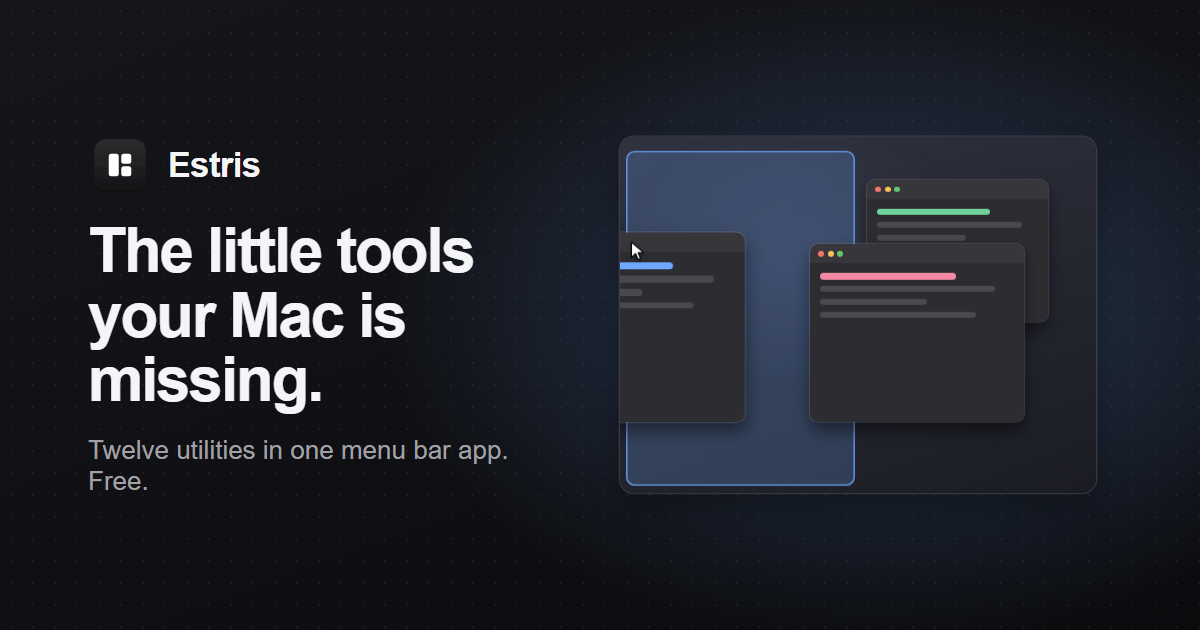
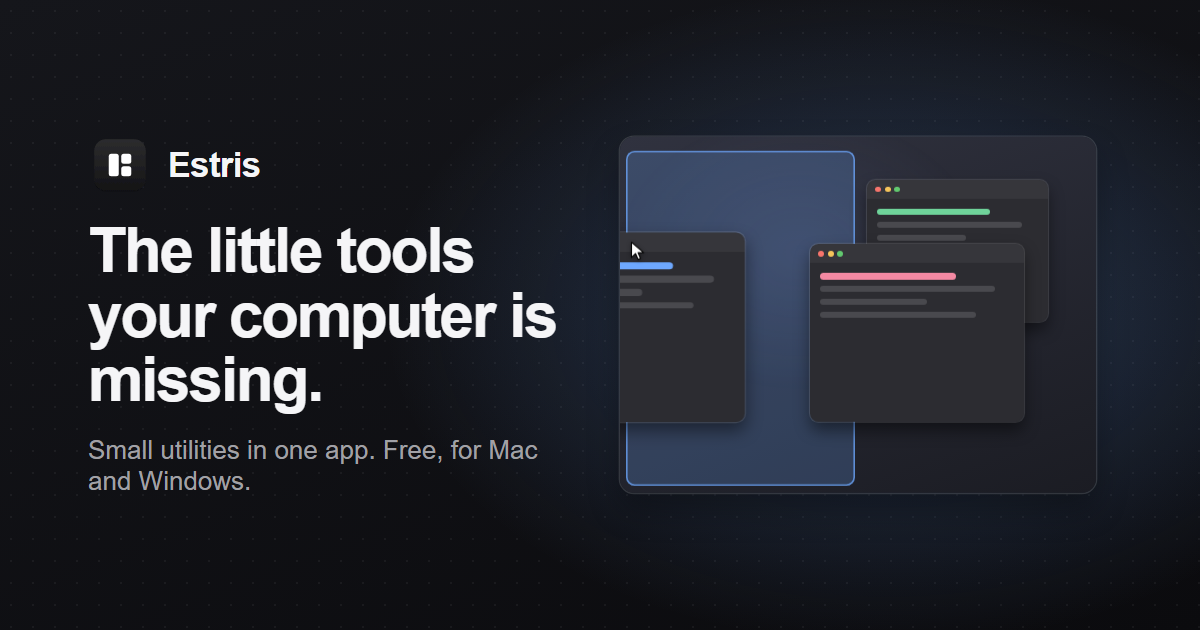
Add Windows releases, the site for both systems and the monorepo docs
Windows gets its build and release workflows, with Velopack installers on a rolling
windows-latest release so the Mac's latest release stays its own. The site offers both
downloads and says what is Mac only. CLAUDE.md now leaves out of an app what makes no sense there.

Changed region(s): [[0.0617, 0.6937, 0.4625, 0.7841], [0.185, 0.4524, 0.4625, 0.5429]]

diff --git a/web/src/data/features.ts b/web/src/data/features.ts
@@ -6,6 +6,11 @@ export interface Feature {
   tagline: string;
   /** At most three short lines on how it works. */
   details: string;
+  /** Replace those for visitors on Windows, where the wording differs. */
+  windowsTagline?: string;
+  windowsDetails?: string;
+  /** Windows has this built in, so Estris for Windows doesn't. */
+  macOnly?: boolean;
   seconds: number;
   /** The colour of its glow on the page. */
   accent: string;
@@ -19,6 +24,7 @@ export const features: Feature[] = [
     title: "Window Snapping",
     tagline: "Every window, exactly where you want it.",
     details: "Drag a window to an edge or a corner, or use ⌃⌥ shortcuts for halves, thirds and corners. One shortcut lines up every window on the screen.",
+    windowsDetails: "Drag a window to an edge or a corner, or use Ctrl+Alt shortcuts for halves, thirds and corners. One shortcut lines up every window on the screen.",
     seconds: 10,
     accent: "#6ea8fe",
     icon: '<rect x="3" y="5" width="18" height="14" rx="2.5" fill="none" stroke="currentColor" stroke-width="1.8"/><path d="M12 5v14" stroke="currentColor" stroke-width="1.8"/>',
@@ -28,6 +34,7 @@ export const features: Feature[] = [
     title: "Clipboard",
     tagline: "Everything you copy, one shortcut away.",
     details: "Hold ⌘⇧ and tap V to step back through what you copied, then let go to paste it. Text, images and files, with passwords left out.",
+    windowsDetails: "Hold Ctrl+Shift and tap V to step back through what you copied, then let go to paste it. Text, images and files, with passwords left out.",
     seconds: 12,
     accent: "#ffb867",
     icon: '<rect x="5.5" y="4.5" width="13" height="16" rx="2.5" fill="none" stroke="currentColor" stroke-width="1.8"/><rect x="9" y="2.8" width="6" height="3.4" rx="1.2" fill="currentColor"/>',
@@ -37,6 +44,7 @@ export const features: Feature[] = [
     title: "Volume Mixer",
     tagline: "A volume knob for every app.",
     details: "Turn the music up and the browser down, mute one app, or send a call to your headphones. Right from the menu bar.",
+    windowsDetails: "Turn the music up and the browser down, mute one app, or send a call to your headphones. Right from the system tray.",
     seconds: 12,
     accent: "#f589a3",
     icon: '<path d="M4 9.5h3.5L12 5.5v13l-4.5-4H4z" fill="currentColor"/><path d="M15.5 9a4.5 4.5 0 0 1 0 6M18 6.5a8 8 0 0 1 0 11" fill="none" stroke="currentColor" stroke-width="1.8" stroke-linecap="round"/>',
@@ -46,6 +54,7 @@ export const features: Feature[] = [
     title: "Dock Preview",
     tagline: "See an app's windows before you click.",
     details: "Rest the pointer on an app in the Dock to see every window it has open, even on other desktops. Click one to go straight to it.",
+    macOnly: true,
     seconds: 10,
     accent: "#b794f6",
     icon: '<rect x="3" y="3.5" width="18" height="12" rx="2.5" fill="none" stroke="currentColor" stroke-width="1.8"/><rect x="6" y="18" width="12" height="3" rx="1.5" fill="currentColor"/>',
@@ -55,6 +64,7 @@ export const features: Feature[] = [
     title: "Color Picker",
     tagline: "Any color on your screen, copied in a click.",
     details: "Press ⌘⇧C, point and click. The color is copied as Hex, RGB, HSL or SwiftUI, and your recent colors stay a click away.",
+    windowsDetails: "Press Ctrl+Shift+C, point and click. The color is copied as Hex, RGB, HSL or C#, and your recent colors stay a click away.",
     seconds: 8,
     accent: "#ff8a5c",
     icon: '<path d="M12 3.5c3 4 5.5 6.8 5.5 10a5.5 5.5 0 0 1-11 0c0-3.2 2.5-6 5.5-10z" fill="none" stroke="currentColor" stroke-width="1.8" stroke-linejoin="round"/>',
@@ -73,6 +83,7 @@ export const features: Feature[] = [
     title: "Keep Awake",
     tagline: "Your Mac stays awake for as long as you need.",
     details: "Keep the screen on for a set time or indefinitely, with separate choices on power and on battery.",
+    windowsTagline: "Your PC stays awake for as long as you need.",
     seconds: 6,
     accent: "#f5c451",
     icon: '<path d="M4.5 9h11v4.5a5 5 0 0 1-5 5h-1a5 5 0 0 1-5-5zM15.5 10.5h1.5a2.5 2.5 0 0 1 0 5h-1.5" fill="none" stroke="currentColor" stroke-width="1.8" stroke-linejoin="round"/><path d="M8 3.5c-.8 1 .8 1.6 0 2.8M12 3.5c-.8 1 .8 1.6 0 2.8" fill="none" stroke="currentColor" stroke-width="1.6" stroke-linecap="round"/>',
@@ -91,6 +102,7 @@ export const features: Feature[] = [
     title: "Remap",
     tagline: "Make every key and button do what you want.",
     details: "Turn Caps Lock into Escape, or a mouse button into Mission Control. Each keyboard and mouse keeps its own mappings.",
+    windowsDetails: "Turn Caps Lock into Escape, or a mouse button into Task View. Each keyboard and mouse keeps its own mappings.",
     seconds: 6,
     accent: "#7cc8f0",
     icon: '<rect x="2.5" y="6" width="19" height="12" rx="2.5" fill="none" stroke="currentColor" stroke-width="1.8"/><path d="M6.5 10h1M10.5 10h1M14.5 10h1M8 14h8" stroke="currentColor" stroke-width="1.8" stroke-linecap="round"/>',
@@ -100,6 +112,7 @@ export const features: Feature[] = [
     title: "Middle Click",
     tagline: "The middle click, now on your trackpad.",
     details: "Tap with three fingers to open a link in a new tab or close one, just like clicking a mouse wheel.",
+    macOnly: true,
     seconds: 8,
     accent: "#9d9bf0",
     icon: '<circle cx="6.5" cy="13" r="2" fill="currentColor"/><circle cx="12" cy="10" r="2" fill="currentColor"/><circle cx="17.5" cy="13" r="2" fill="currentColor"/>',
@@ -109,6 +122,7 @@ export const features: Feature[] = [
     title: "Delete to Trash",
     tagline: "The Delete key, as it works on Windows.",
     details: "Select files and press Delete to move them to the Trash, no ⌘ needed. It works in Photos, Notes and other apps too, and Shift-Delete skips the Trash.",
+    macOnly: true,
     seconds: 8,
     accent: "#a3a8b8",
     icon: '<path d="M4.5 7h15M9.5 7V4.8h5V7M6.5 7l.9 12.2a1.8 1.8 0 0 0 1.8 1.6h5.6a1.8 1.8 0 0 0 1.8-1.6L17.5 7" fill="none" stroke="currentColor" stroke-width="1.8" stroke-linecap="round" stroke-linejoin="round"/><path d="M10.2 10.5v6.5M13.8 10.5v6.5" stroke="currentColor" stroke-width="1.8" stroke-linecap="round"/>',
@@ -123,11 +137,3 @@ export const features: Feature[] = [
     icon: '<rect x="4" y="4" width="16" height="16" rx="3.5" fill="none" stroke="currentColor" stroke-width="1.8"/><path d="M9.5 9.5l5 5M14.5 9.5l-5 5" stroke="currentColor" stroke-width="1.8" stroke-linecap="round"/>',
   },
 ];
-
-/** How many tools, as a word ("eleven"), for copy that names the count. */
-export const toolCount =
-  ["zero", "one", "two", "three", "four", "five", "six", "seven", "eight", "nine", "ten", "eleven", "twelve", "thirteen", "fourteen", "fifteen"][features.length] ??
-  String(features.length);
-
-/** The same, capitalized to start a sentence. */
-export const ToolCount = toolCount[0].toUpperCase() + toolCount.slice(1);

diff --git a/web/src/styles/site.css b/web/src/styles/site.css
@@ -64,6 +64,15 @@ h1, h2, p { margin: 0; }
 .button-large { min-height: 44px; padding: 0 22px; font-size: 16px; margin-top: clamp(2px, 0.5vh, 6px); }
 .button-large .button-icon { width: 18px; height: 18px; }
 .button:hover { opacity: 0.86; }
+/* The visitor's own system first and solid, the other beside it, quieter. */
+.downloads { display: flex; flex-wrap: wrap; justify-content: center; gap: 10px; }
+.for-windows-first { background: transparent; color: var(--text); box-shadow: inset 0 0 0 1px color-mix(in srgb, var(--text) 22%, transparent); }
+[data-os="windows"] .for-windows-first { order: -1; background: var(--button); color: var(--button-text); box-shadow: none; }
+[data-os="windows"] .for-mac-first { background: transparent; color: var(--text); box-shadow: inset 0 0 0 1px color-mix(in srgb, var(--text) 22%, transparent); }
+.for-windows { display: none; }
+[data-os="windows"] .for-windows { display: block; }
+[data-os="windows"] .for-mac { display: none; }
+.only { padding: 3px 9px; border-radius: 999px; font-size: 12px; font-weight: 600; color: var(--muted); box-shadow: inset 0 0 0 1px color-mix(in srgb, var(--muted) 40%, transparent); }
 .button:active { transform: scale(0.97); }
 :focus-visible { outline: 3px solid #0a84ff; outline-offset: 3px; }
 

diff --git a/web/src/config.ts b/web/src/config.ts
@@ -1,7 +1,11 @@
-/** Where the Download button points: the disk image of the latest GitHub release. */
+/** Where the Download buttons point: the disk image of the latest GitHub release, and the
+    installer of the rolling release Windows versions go to (they never count as "latest",
+    which the Mac's button and updates rely on). */
 export const DOWNLOAD_URL = "https://github.com/CarlesRojas/estris/releases/latest/download/Estris.dmg";
+export const DOWNLOAD_WINDOWS_URL = "https://github.com/CarlesRojas/estris/releases/download/windows-latest/Estris-win-Setup.exe";
 
 export const MIN_MACOS = "macOS 13 or later";
+export const MIN_WINDOWS = "Windows 10 or later";
 
 /** Where the site lives, for the picture shared on social sites (which needs a full URL). */
 export const SITE_URL = "https://estris.pro";

diff --git a/windows/scripts/release.py b/windows/scripts/release.py
@@ -1,0 +1,58 @@
+#!/usr/bin/env python3
+"""Prepares a Windows release: bumps the version in Estris.csproj and turns the changelog's
+Unreleased section into the new version's. Used by the Release Windows workflow.
+
+    python scripts/release.py patch|minor|major NOTES_FILE
+
+Writes the release notes (the Unreleased entries, then a line every release has) to NOTES_FILE
+and prints `version=X.Y.Z` for the workflow. Unreleased may be empty.
+"""
+import datetime
+import re
+import sys
+from pathlib import Path
+
+ROOT = Path(__file__).resolve().parent.parent
+PROJECT = ROOT / "src/Estris/Estris.csproj"
+CHANGELOG = ROOT / "CHANGELOG.md"
+# Last in every release's notes, even when nothing else is.
+ALWAYS = "- Performance improvements and bug fixes."
+
+
+def main():
+    if len(sys.argv) != 3 or sys.argv[1] not in ("patch", "minor", "major"):
+        sys.exit(__doc__)
+    bump, notes_file = sys.argv[1], Path(sys.argv[2])
+
+    changelog = CHANGELOG.read_text(encoding="utf-8")
+    section = re.search(r"^## Unreleased\n(.*?)(?=^## |\Z)", changelog, re.S | re.M)
+    if not section:
+        sys.exit("CHANGELOG.md has no '## Unreleased' section")
+    notes = "\n".join(line for line in (section.group(1).strip(), ALWAYS) if line)
+
+    project = PROJECT.read_text(encoding="utf-8")
+    current = re.search(r"<Version>(\d+)\.(\d+)\.(\d+)</Version>", project)
+    if not current:
+        sys.exit("<Version> not found in Estris.csproj")
+    major, minor, patch = (int(part) for part in current.groups())
+    if bump == "major":
+        major, minor, patch = major + 1, 0, 0
+    elif bump == "minor":
+        minor, patch = minor + 1, 0
+    else:
+        patch += 1
+    version = f"{major}.{minor}.{patch}"
+    PROJECT.write_text(project[:current.start()] + f"<Version>{version}</Version>" + project[current.end():], encoding="utf-8")
+
+    today = datetime.date.today().isoformat()
+    changelog = (changelog[:section.start()] + "## Unreleased\n\n" + f"## {version} - {today}\n\n"
+                 + notes + "\n\n" + changelog[section.end():].lstrip("\n"))
+    CHANGELOG.write_text(changelog.rstrip("\n") + "\n", encoding="utf-8")
+
+    notes_file.parent.mkdir(parents=True, exist_ok=True)
+    notes_file.write_text(notes + "\n", encoding="utf-8")
+    print(f"version={version}")
+
+
+if __name__ == "__main__":
+    main()

diff --git a/CLAUDE.md b/CLAUDE.md
@@ -1,12 +1,14 @@
 # Notes for Claude
 
-- Estris is built for both Mac and Windows. Every feature, change or fix goes into both apps in the same change, even when the request only mentions one; where something can't exist on one of them, keep as close to it as that platform allows and say what differs.
-- Project context (features, settings, behavior, project structure) lives in `PROJECT.md`. Read it for context, and keep it up to date whenever a feature or the structure changes.
+- Estris is a monorepo with two native apps: `macos/` (Swift) and `windows/` (C#, WinUI 3), plus `web/`. Every feature, change or fix goes into both apps in the same change, even when the request only mentions one. The exception is what makes no sense on a platform, because the system already does it well or it can't really be done there: then it stays out of that app, the table in `PROJECT.md` says so, and you tell the user. Don't build a lesser version just to have it.
+- The Windows app must look like a Windows app, not a Mac port: Fluent style, Mica and Acrylic, Segoe Fluent Icons, the system accent colour.
+- Project context lives in `PROJECT.md` (the two apps, what each has, releases, website), `macos/PROJECT.md` and `windows/PROJECT.md` (features, settings, behavior, structure). Read them for context, and keep them up to date whenever a feature or the structure changes.
 - `README.md` only covers how to develop: the commands and a short line for each. Keep it short.
 - Localization: every user-facing string must be localized in the same change that adds or edits it, in every supported language, with no exceptions and no follow-up PRs. A string is user-facing if it can appear on screen (labels, buttons, menus, alerts, help tooltips, placeholders, Event Viewer text). Log messages and identifiers are not localized.
-  - How: add the English text as a line in every `Resources/Localization/<language>.lproj/Localizable.strings` (the key is the English text, with `%@` for interpolated strings and `%lld` for integers), translated. Literal text in SwiftUI (`Text("…")`, `Button("…")`, `.help("…")`) is translated on its own; text built in code uses `String(localized: "…")`; a key known only at run time uses `localized(_:)`. Text that must never be translated uses `Text(verbatim:)`.
-  - Then run `python3 scripts/check-localization.py`; it must report 0 problems before committing.
-- Every settings pane except General, Remap and Developer ends with a **Reset to Defaults** button. When adding a setting, include it in that pane's `reset()`. Resets leave on/off switches, excluded apps, history and Open at login alone.
-- Every settings row also gets a right-click **Reset to Default** with `.resetMenu(...)` (`Settings/ResetMenu.swift`), taking its default from the settings class's constants, the same ones `reset()` uses. Add it to any new row.
-- Changes that matter to people using Estris add a short line under **Unreleased** in `CHANGELOG.md`, in the same change, written for users: a new utility or feature, a new or changed setting or default, a fix for something they would have run into, a change in how something they use behaves. Leave out small polish and details of installing, updating or permissions (a window opening on another screen, the disk image ejecting itself), and anything internal (refactors, docs, the website, build and release scripts). When unsure, leave it out.
-- A new utility also goes on the website (`web/`) in the same change: its entry in `web/src/data/features.ts` (title, tagline, details, length, accent and icon), an animation in `web/src/components/spots/` registered in `index.ts`, made like the others with the helpers in `web/src/lib/motion.ts` and showing the utility doing what it does, and its video recorded into `web/public/spots/` (`npm run build && npm run render-spots -- <id>`; check the frames first with `--sheet`). Then run `npm run render-og` too, as the shared picture says how many tools there are.
+  - Mac: add the English text as a line in every `macos/Resources/Localization/<language>.lproj/Localizable.strings` (the key is the English text, with `%@` for interpolated strings and `%lld` for integers), translated. Literal text in SwiftUI (`Text("…")`, `Button("…")`, `.help("…")`) is translated on its own; text built in code uses `String(localized: "…")`; a key known only at run time uses `localized(_:)`. Text that must never be translated uses `Text(verbatim:)`. Then run `python3 macos/scripts/check-localization.py`.
+  - Windows: visible text goes through `T("…")` (`Core/Loc.cs`), with the same keys, and is translated in `windows/src/Estris/Localization/<language>/<area>.strings` (English has no file). Then run `python windows/scripts/check-localization.py` (`--from-mac` copies what the Mac already has).
+  - Each check must report 0 problems before committing.
+- Every settings pane except General, Remap and Developer ends with a **Reset to Defaults** button. When adding a setting, include it in that pane's `reset()` (Mac) or `pane.ResetButton` (Windows). Resets leave on/off switches, excluded apps, history and Open at login alone.
+- Every settings row also gets a right-click **Reset to Default**. Mac: `.resetMenu(...)` (`Settings/ResetMenu.swift`), taking its default from the settings class's constants, the same ones `reset()` uses; add it to any new row. Windows: rows built with `Pane` from a `Setting<T>` have it already; a custom row calls `Pane.WithReset`.
+- Changes that matter to people using Estris add a short line under **Unreleased** in `macos/CHANGELOG.md` and `windows/CHANGELOG.md`, in the same change, written for users: a new utility or feature, a new or changed setting or default, a fix for something they would have run into, a change in how something they use behaves. Leave out small polish and details of installing, updating or permissions (a window opening on another screen, the disk image ejecting itself), and anything internal (refactors, docs, the website, build and release scripts). When unsure, leave it out.
+- A new utility also goes on the website (`web/`) in the same change: its entry in `web/src/data/features.ts` (title, tagline, details, length, accent and icon, with `windowsDetails` where the wording differs on Windows, or `macOnly`), an animation in `web/src/components/spots/` registered in `index.ts`, made like the others with the helpers in `web/src/lib/motion.ts` and showing the utility doing what it does, and its video recorded into `web/public/spots/` (`npm run build && npm run render-spots -- <id>`; check the frames first with `--sheet`).

diff --git a/PROJECT.md b/PROJECT.md
@@ -1,0 +1,43 @@
+# Estris: project context
+
+Estris is a set of small utilities in one app, for Mac and Windows. Each app is native and has its own code: there is nothing shared to build, but they are one product, so a feature, change or fix goes into both.
+
+- `macos/`: the Mac app, in Swift. Its features, settings and structure are in `macos/PROJECT.md`.
+- `windows/`: the Windows app, in C# with WinUI 3. Same: `windows/PROJECT.md`.
+- `web/`: the download site, below.
+
+The Mac app is the reference for how a utility behaves. The Windows one matches it, in Windows's own look: it shouldn't look like a Mac app.
+
+## What each app has
+
+| Utility | Mac | Windows |
+| --- | --- | --- |
+| Clipboard | yes | yes |
+| Color Picker | yes | yes |
+| Volume Mixer | yes | yes, per-app volume up to 100% (more needs an audio driver) |
+| Keep Awake | yes | yes |
+| Rounded Corners | yes | yes |
+| Window Snapping | yes | yes |
+| Focus Follows Mouse | yes | yes |
+| Auto Quit | yes | yes |
+| Remap | yes | yes |
+| Dock Preview | yes | no: the taskbar already shows previews |
+| Middle Click | yes | no: three-finger tap is a Windows setting |
+| Delete to Trash | yes | no: Delete already works this way |
+
+Only what makes sense on a platform goes in: what the system already does well, or what can't really be done there, stays out, and this table says so.
+
+## Releases
+
+Each app releases on its own, from Actions, with its own version and changelog: **Release macOS** and **Release Windows**. GitHub's "latest release" belongs to the Mac app, whose updates and download button read it, so Windows releases are never marked as latest; installed Windows copies and the website read the rolling `windows-latest` release instead.
+
+## Website
+
+`web/` is the download site, built with Astro as a static site (for Vercel, with `web` as the project's root directory). Everything is centred. On a desktop it fits one screen: a top bar with the icon and the name, and a **GitHub** link on the right (with the star count once there are at least `MIN_STARS_SHOWN`, 25, asked of GitHub's API once per visit); the app icon, larger, right above the headline, and under it **Download for Mac** and **Download for Windows** side by side (with a download icon, as in the footer), with lots of room around them; the visitor's own system goes first and solid, the other is quieter; the features as pills with their icons, in rows as even as they can be (the narrowest list that keeps the same number of rows), the playing one tinted with its colour and filling up as its animation plays (fully filled once picked); and a large panel tinted with the playing feature's colour, with its animation, title, one-line pitch and up to three lines on how it works (when the panel is wide, at least 8:5, the animation, larger, on the left and the words on the right, centred together with the glow behind the animation). Scrolling only reveals a small footer: the download buttons, the system versions needed and the copyright. Visitors on Windows (`data-os` on the page, set before it paints) get the wording of `windowsTagline` and `windowsDetails`; features Windows has built in (`macOnly`) say **Mac only**. The features play one after another, each for its animation's length (a short line under the playing one shows its progress), back to the first after the last, until one is picked: it then keeps replaying. Every animation ends exactly as it starts, so replaying is seamless. Keep Awake and Remap are still pictures. Rounded Corners shows a square-cornered screen filled by a light, square-cornered window, so the black corners stand out (the menu bar's items kept clear of the corners) and its switch in the middle: clicked on, the screen's corners round off in black, as round as the menu bar is tall; clicked off, they square up again. The panel spans the page's width, up to 1440 px. On narrow or short screens the page scrolls, with the features as a grid of icons (five to a row, all in view) above the panel, smaller text and a smaller top bar. Only plays while on screen; with Reduce Motion each animation shows how it ends.
+
+- `src/data/features.ts`: the features' texts (and their Windows wording), order, animation lengths, colours and icons.
+- `src/lib/motion.ts`: the animations' motion language, after LottieFiles' motion-design skill (the "Playful" personality): fast starts with soft landings, a small overshoot when things arrive (ease-out-back), a squash and spring on every click and keypress, a pointer that travels in arcs (x and y on different curves) and holds down while dragging, and a soft light drifting over each screen. Helpers return the keyframes, so every spot moves the same way. Colours are a softer palette than the system's pure ones (`--blue`, `--pink`… in `spot.css`).
+- `src/components/spots/`: one animation per feature, in HTML and CSS on a square, transparent stage (`src/styles/spot.css` holds the shared pieces: screen, windows, pointer, keycaps, labels). Each runs its keyframes once over `--d` while its root has `.playing`.
+- `src/pages/spots/[id].astro`: each animation alone, for recording; `scripts/render-spots.mjs` records them as 1080 px transparent WebM into `public/spots` (and ProRes 4444 with `--mov`), for social posts or elsewhere. `--sheet` writes a few frames side by side to check one.
+- `src/config.ts`: where Download points (`Estris.dmg` of this repo's latest GitHub release, and the installer on the rolling `windows-latest` release), the site's address, the repo and the star threshold.
+- Shared links show `public/og.png` (1200 × 630: the icon, the headline and Window Snapping's animation, paused while a window is dragged to the left edge), recorded from `src/pages/og.astro` by `scripts/render-og.mjs` (`npm run render-og` after a build).

diff --git a/README.md b/README.md
@@ -1,14 +1,18 @@
 # Estris
 
+Small utilities for Mac and Windows. `macos/` and `windows/` are the two apps, `web/` the site.
+
+## Mac (`macos/`)
+
 Needs an Apple Development certificate (Xcode > Settings > Accounts > Manage Certificates). The build signs with it, so macOS keeps the Accessibility permission across builds.
 
 ```sh
-./scripts/run.sh
+cd macos && ./scripts/run.sh
 ```
 Quits the running app, builds it and opens the new build. Use it after every change.
 
 ```sh
-./scripts/build-app.sh
+cd macos && ./scripts/build-app.sh
 ```
 Only builds `build/Estris.app`, without opening it.
 
@@ -18,13 +22,32 @@ tccutil reset Accessibility com.carlesrojas.Estris
 Run once after the signing certificate changes, then grant Accessibility again.
 
 ```sh
-python3 scripts/check-localization.py
+python3 macos/scripts/check-localization.py
 ```
 Checks every visible string is translated in every language.
 
+## Windows (`windows/`)
+
+Needs the [.NET 10 SDK](https://dotnet.microsoft.com/download). Visual Studio isn't needed.
+
+```sh
+bash windows/scripts/build.sh run
+```
+Quits the running app, builds it and opens the new build.
+
+```sh
+python windows/scripts/check-localization.py
+```
+Checks every visible string is translated in every language. `--from-mac` first copies the translations the Mac app already has.
+
+```sh
+dotnet tool install -g vpk && VERSION=1.2.3 bash windows/scripts/make-installer.sh
+```
+Builds the installers into `windows/build/releases`.
+
 ## Releases
 
-Actions > Release > Run workflow, on main, choosing patch, minor or major: bumps the version, turns the changelog's Unreleased entries into the release notes, and publishes a signed, notarized `Estris.dmg`.
+Actions > Release macOS or Release Windows > Run workflow, on main, choosing patch, minor or major: bumps that app's version, turns its changelog's Unreleased entries into the release notes, and publishes it.
 
 ## Website (`web/`)
 
